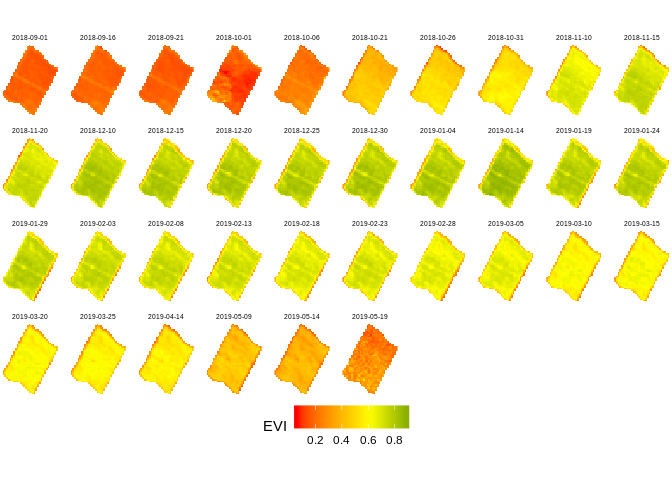
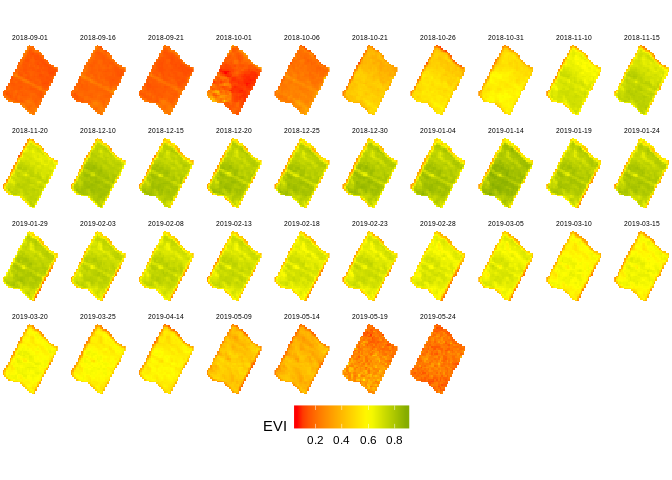
update until May 24th

Changed region(s): [[0.5938, 0.6562, 0.6875, 0.8125]]

diff --git a/README.md b/README.md
@@ -44,7 +44,7 @@ de datos con todos los paquetes incluidos en
 Los índices vegetacionales entre agosto 2018 a mayo 2019 los puedes
 descarga en la carpeta [VIs](data/spatial/VIs).
 
-Última actualización: 2019-05-23
+Última actualización: 2019-05-27
 
 Un ejemplo, series de imágenes de EVI.
 
